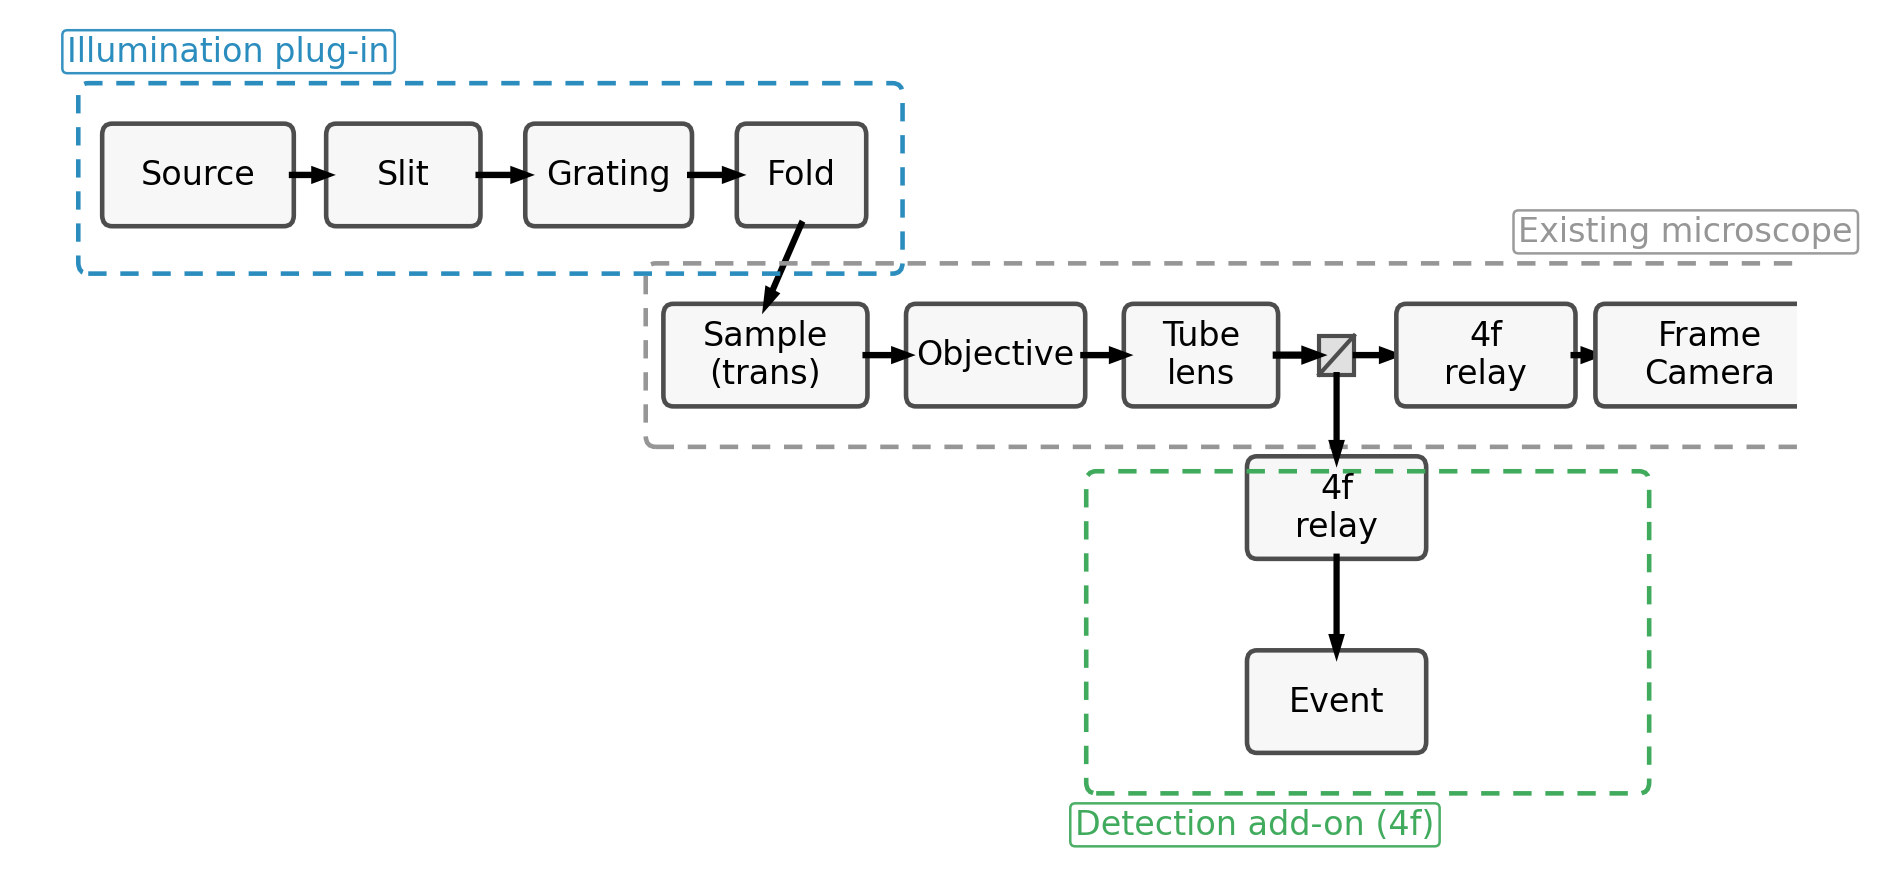
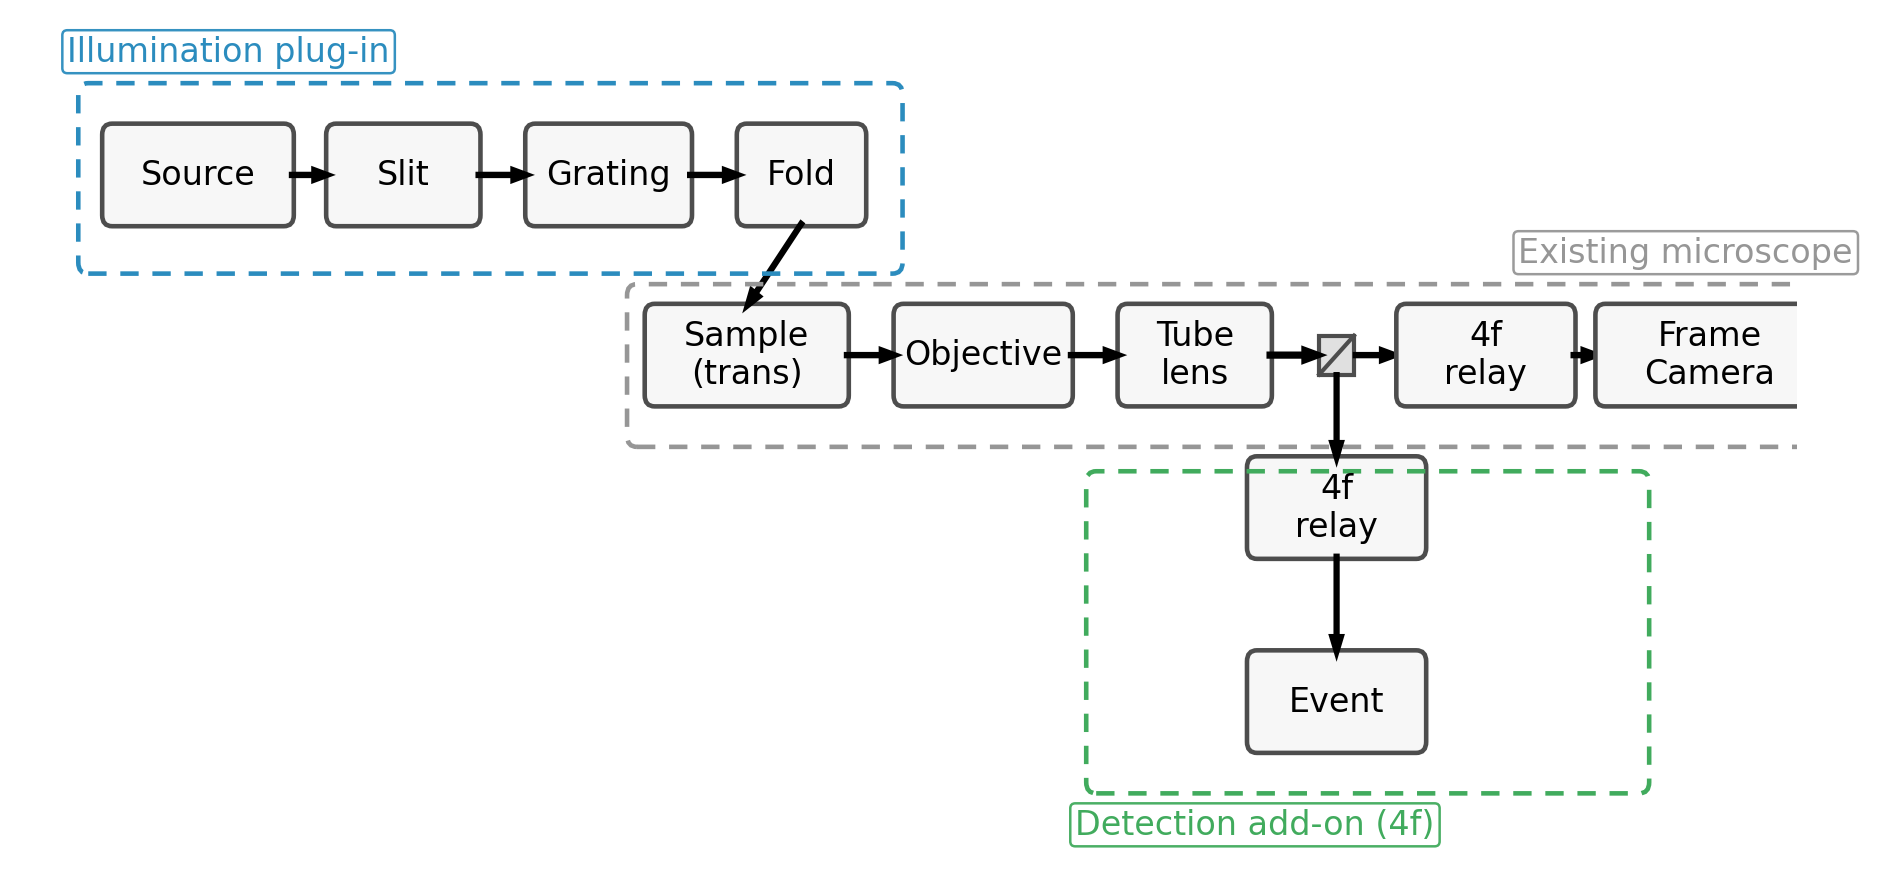
style(figure1): shift microscope chain left (L=0.40), shrink dashed-box height further (1.15), keep fold→sample centered, and ensure snug Tube lens/Frame Camera; rebuild

Changed region(s): [[0.339, 0.2727, 0.9554, 0.5152], [0.7396, 0.2121, 1.0, 0.3333]]

diff --git a/publication_code/figure01_system_overview.py b/publication_code/figure01_system_overview.py
@@ -128,7 +128,8 @@ def render(out_path: Path) -> None:
     bs_cx, bs_cy = 10.5, 3.65
     bs_size = 0.28
     b_left = bs_cx - bs_size / 2.0
-    L = 0.35
+    # Equal edge-to-edge spacing (increase slightly to shift the microscope left)
+    L = 0.40
     sample_w, obj_w, tube_w = 1.6, 1.4, 1.2  # tighten Tube lens width to remove slack
 
     # Solve positions from right to left so gaps are equal (edge-to-edge):
@@ -195,7 +196,7 @@ def render(out_path: Path) -> None:
     mic_margin = 0.15
     mic_left = sample_x - mic_margin
     mic_right = cam_x + cam_w + mic_margin
-    add_plugin_box(ax, mic_left, 3.0, mic_right - mic_left, 1.3,
+    add_plugin_box(ax, mic_left, 3.0, mic_right - mic_left, 1.15,
                    label="Existing microscope", ec="#969696", label_pos="outside-tr")
 
     # Keep diagram clean: avoid extra annotations that can overlap
